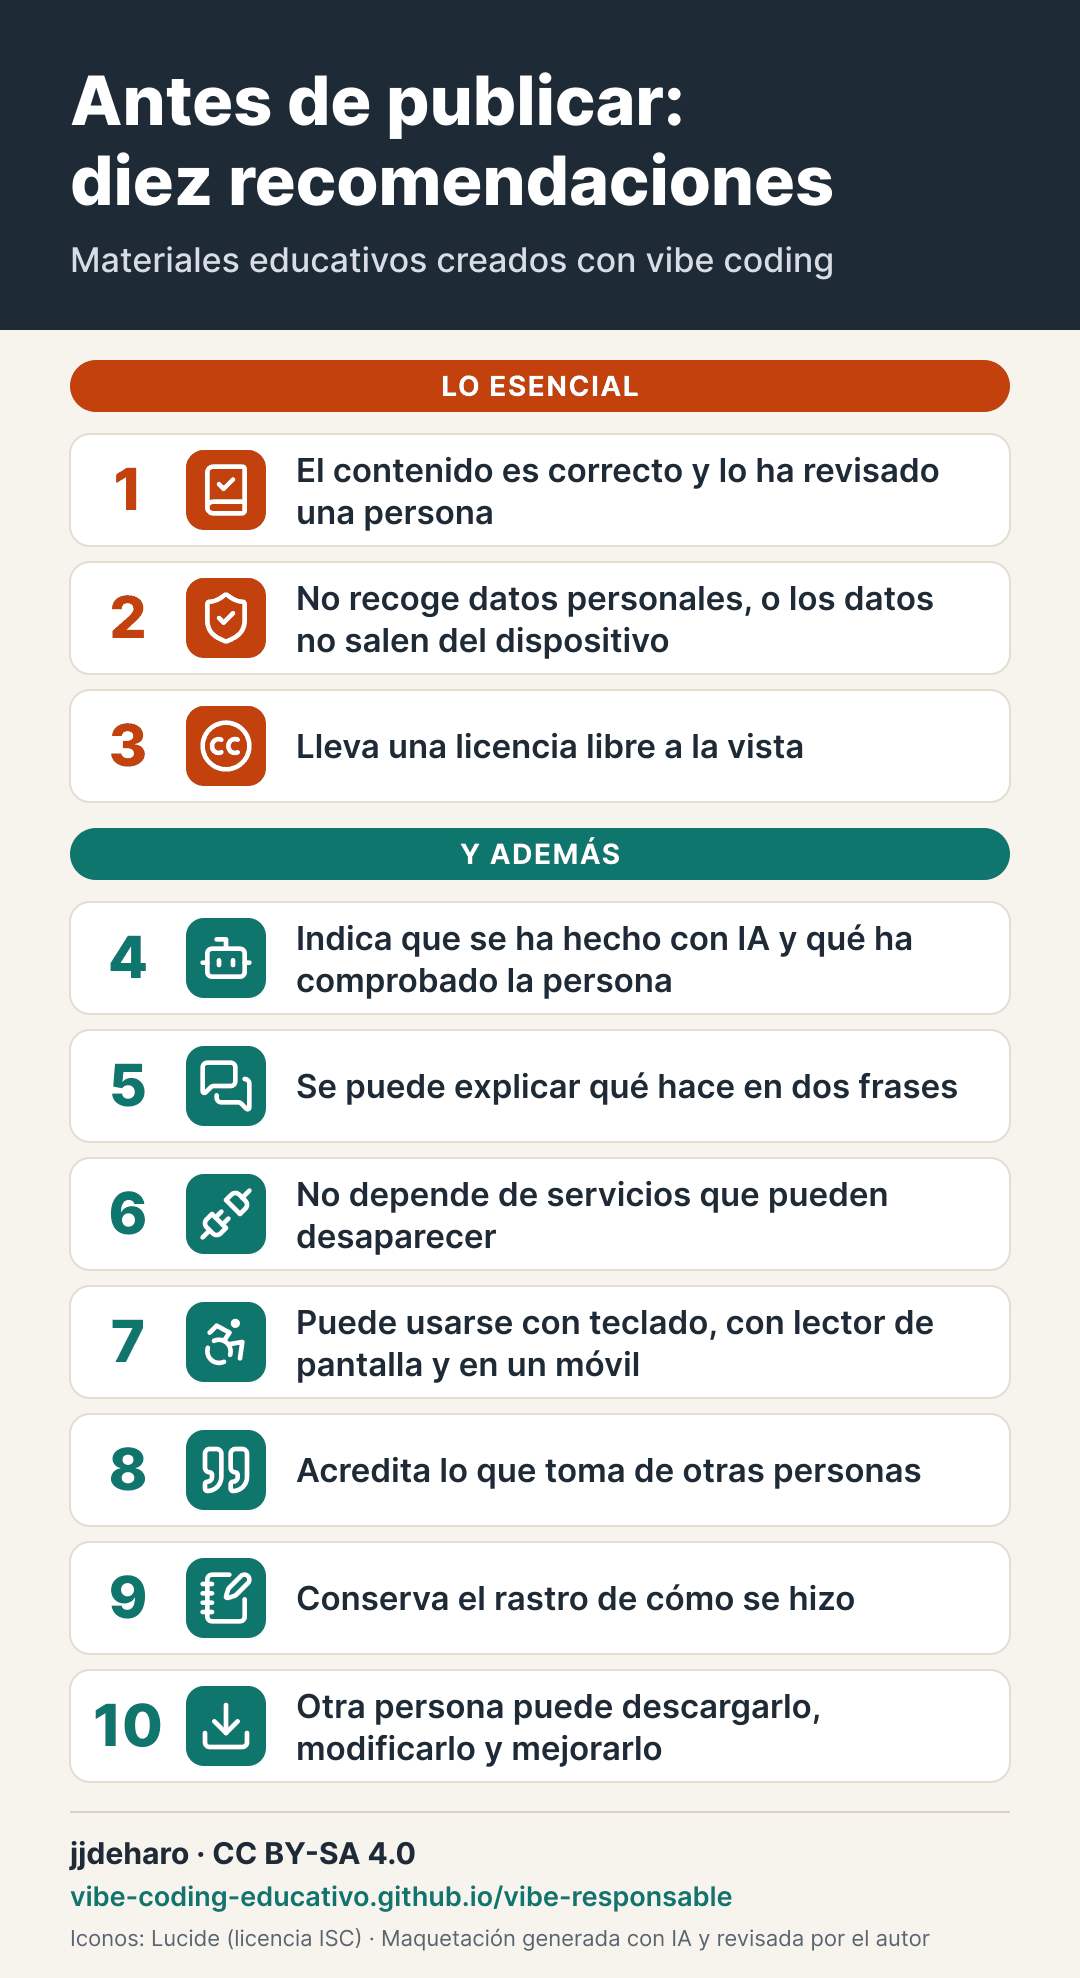
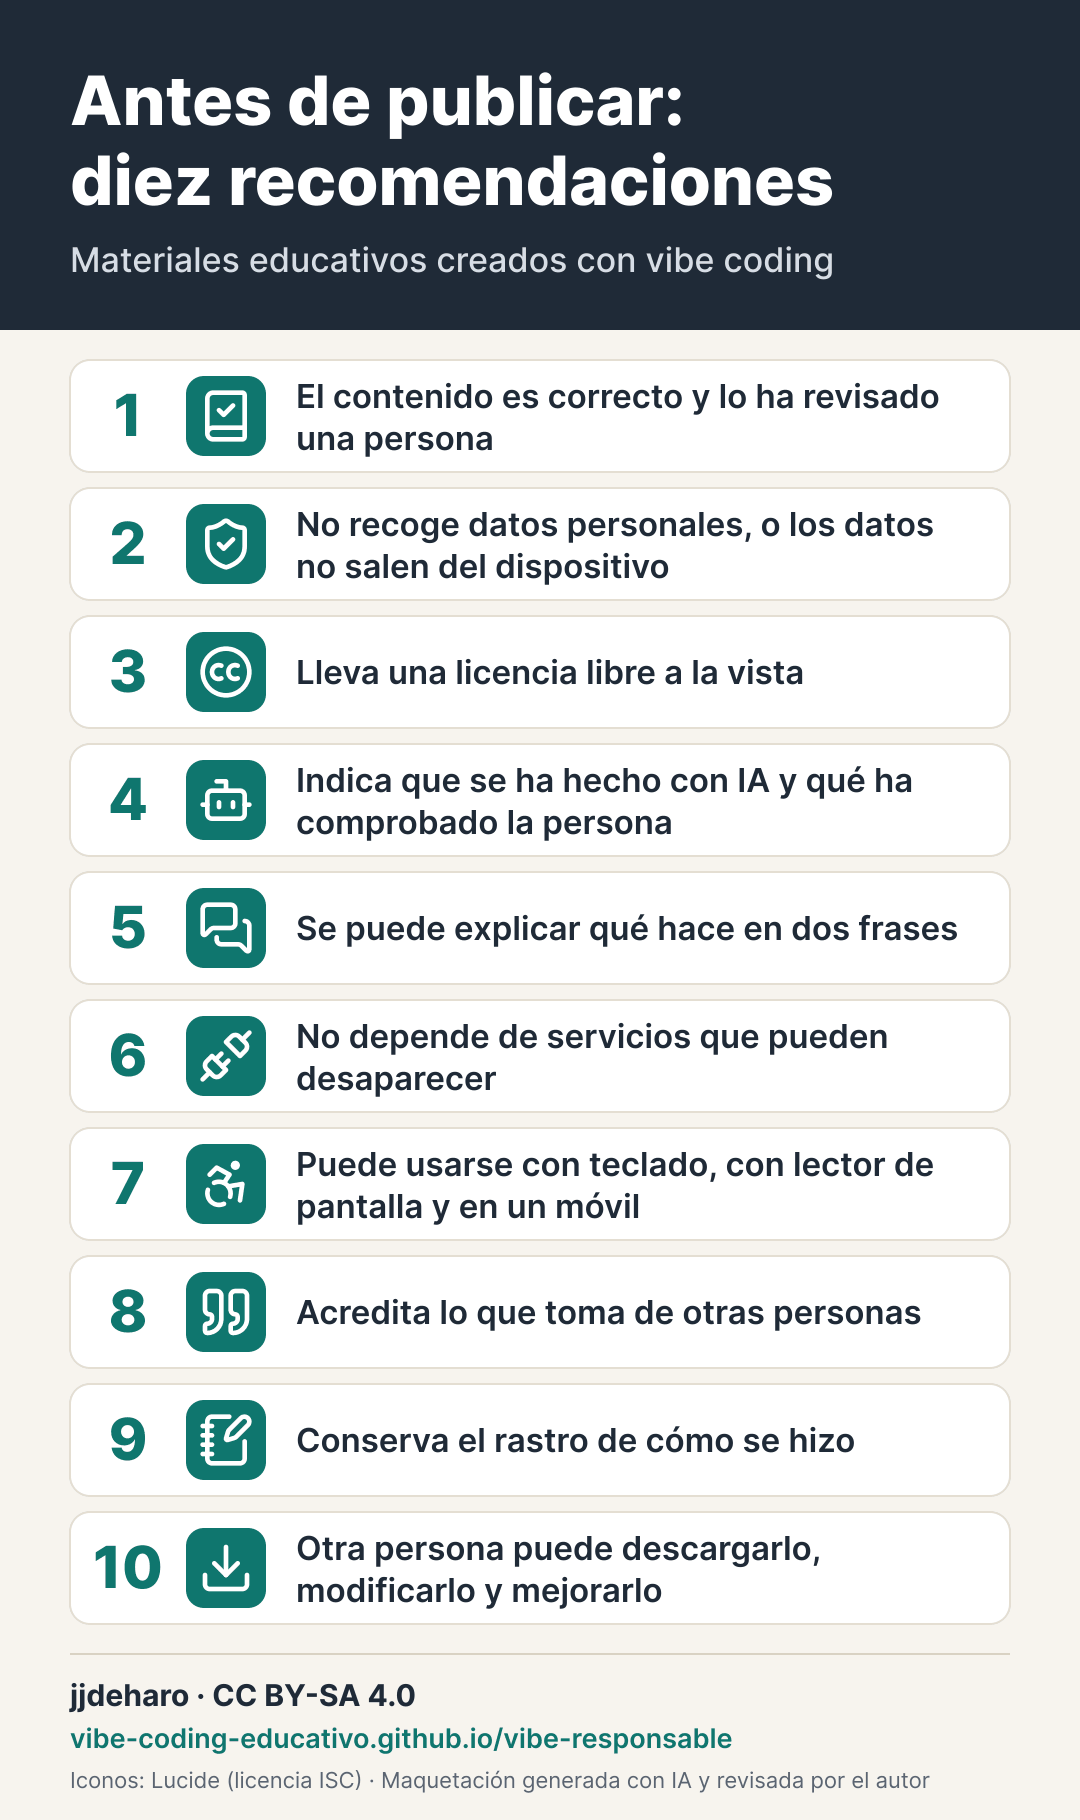
Drop the essential/extra division from the checklist and its infographic

diff --git a/infografia/generar.py b/infografia/generar.py
@@ -16,8 +16,6 @@ TEXTOS = {
     "es": {
         "titulo": ["Antes de publicar:", "diez recomendaciones"],
         "subtitulo": "Materiales educativos creados con vibe coding",
-        "esencial": "Lo esencial",
-        "recomendable": "Y además",
         "puntos": [
             ("book-check", "El contenido es correcto y lo ha revisado una persona"),
             ("shield-check", "No recoge datos personales, o los datos no salen del dispositivo"),
@@ -33,7 +31,6 @@ TEXTOS = {
         "pie1": "jjdeharo · CC BY-SA 4.0",
         "pie2": "vibe-coding-educativo.github.io/vibe-responsable",
         "pie3": "Iconos: Lucide (licencia ISC) · Maquetación generada con IA y revisada por el autor",
-        "pie3_ilustrada": "Ilustraciones generadas con IA · Maquetación generada con IA y revisada por el autor",
         "desc": "Infografía con las diez recomendaciones para publicar de forma responsable materiales educativos creados con vibe coding.",
     },
 }
@@ -56,19 +53,9 @@ def generar(idioma="es"):
     out.append(f'<text x="70" y="272" font-size="34" font-weight="500" fill="#d6dde6">{html.escape(T["subtitulo"])}</text>')
     y = alto_cab + 30
 
-    def banda(texto, color):
-        nonlocal y
-        out.append(f'<rect x="70" y="{y}" width="{ANCHO-140}" height="52" rx="26" fill="{color}"/>')
-        out.append(f'<text x="{ANCHO/2}" y="{y+36}" font-size="28" font-weight="700" fill="{BLANCO}" text-anchor="middle" letter-spacing="1.5">{html.escape(texto.upper())}</text>')
-        y += 52 + 22
-
     ALTO_FILA = 128
     for i, (ic, texto) in enumerate(T["puntos"], start=1):
-        if i == 1: banda(T["esencial"], NARANJA)
-        if i == 4:
-            y += 10
-            banda(T["recomendable"], VERDE)
-        color = NARANJA if i <= 3 else VERDE
+        color = VERDE
         # tarjeta
         out.append(f'<rect x="70" y="{y}" width="{ANCHO-140}" height="{ALTO_FILA-16}" rx="20" fill="{BLANCO}" stroke="#e4ded2" stroke-width="2"/>')
         # número
@@ -101,59 +88,7 @@ def generar(idioma="es"):
     destino.write_text(svg, encoding="utf-8")
     return destino, alto
 
-def generar_ilustrada(idioma="es"):
-    """Misma lista, con las ilustraciones generadas por IA (codex/01.png … 10.png)."""
-    T = TEXTOS[idioma]
-    out, defs = [], []
-    alto_cab = 330
-    out.append(f'<rect x="0" y="0" width="{ANCHO}" height="{alto_cab}" fill="{PIZARRA}"/>')
-    out.append(f'<text x="70" y="125" font-size="68" font-weight="800" fill="{BLANCO}">{html.escape(T["titulo"][0])}</text>')
-    out.append(f'<text x="70" y="205" font-size="68" font-weight="800" fill="{BLANCO}">{html.escape(T["titulo"][1])}</text>')
-    out.append(f'<text x="70" y="272" font-size="34" font-weight="500" fill="#d6dde6">{html.escape(T["subtitulo"])}</text>')
-    y = alto_cab + 30
-    LADO, ALTO_FILA = 148, 180
-
-    def banda(texto, color):
-        nonlocal y
-        out.append(f'<rect x="70" y="{y}" width="{ANCHO-140}" height="52" rx="26" fill="{color}"/>')
-        out.append(f'<text x="{ANCHO/2}" y="{y+36}" font-size="28" font-weight="700" fill="{BLANCO}" text-anchor="middle" letter-spacing="1.5">{html.escape(texto.upper())}</text>')
-        y += 52 + 22
-
-    for i, (_, texto) in enumerate(T["puntos"], start=1):
-        if i == 1: banda(T["esencial"], NARANJA)
-        if i == 4:
-            y += 10
-            banda(T["recomendable"], VERDE)
-        color = NARANJA if i <= 3 else VERDE
-        out.append(f'<rect x="70" y="{y}" width="{ANCHO-140}" height="{ALTO_FILA-16}" rx="20" fill="{BLANCO}" stroke="#e4ded2" stroke-width="2"/>')
-        defs.append(f'<clipPath id="c{i}"><rect x="78" y="{y+8}" width="{LADO}" height="{LADO}" rx="14"/></clipPath>')
-        out.append(f'<image href="codex/{i:02d}.png" x="78" y="{y+8}" width="{LADO}" height="{LADO}" clip-path="url(#c{i})" preserveAspectRatio="xMidYMid slice"/>')
-        out.append(f'<circle cx="276" cy="{y+82}" r="30" fill="{color}"/>')
-        out.append(f'<text x="276" y="{y+95}" font-size="36" font-weight="800" fill="{BLANCO}" text-anchor="middle">{i}</text>')
-        lineas = textwrap.wrap(texto, width=36)
-        y0 = y + 94 - (len(lineas)-1)*21
-        for k, l in enumerate(lineas):
-            out.append(f'<text x="326" y="{y0+k*42}" font-size="33" font-weight="600" fill="{PIZARRA}">{html.escape(l)}</text>')
-        y += ALTO_FILA
-
-    y += 14
-    out.append(f'<line x1="70" y1="{y}" x2="{ANCHO-70}" y2="{y}" stroke="#d9d2c3" stroke-width="2"/>')
-    out.append(f'<text x="70" y="{y+52}" font-size="30" font-weight="700" fill="{PIZARRA}">{html.escape(T["pie1"])}</text>')
-    out.append(f'<text x="70" y="{y+94}" font-size="27" font-weight="600" fill="{VERDE}">{html.escape(T["pie2"])}</text>')
-    out.append(f'<text x="70" y="{y+134}" font-size="22" fill="{GRIS}">{html.escape(T["pie3_ilustrada"])}</text>')
-    alto = y + 166
-    svg = (f'<svg xmlns="http://www.w3.org/2000/svg" viewBox="0 0 {ANCHO} {alto}" width="{ANCHO}" height="{alto}" '
-           f'font-family="Inter, \'Open Sans\', Arial, sans-serif" role="img" aria-labelledby="t d" lang="{idioma}">\n'
-           f'<title id="t">{html.escape(" ".join(T["titulo"]))}</title>\n<desc id="d">{html.escape(T["desc"])}</desc>\n'
-           f'<defs>{"".join(defs)}</defs>\n<rect width="{ANCHO}" height="{alto}" fill="{CREMA}"/>\n' + "\n".join(out) + "\n</svg>\n")
-    destino = AQUI / f"lista-ilustrada.{idioma}.svg"
-    destino.write_text(svg, encoding="utf-8")
-    return destino, alto
-
 if __name__ == "__main__":
     idioma = sys.argv[1] if len(sys.argv) > 1 else "es"
     d, alto = generar(idioma)
     print(d.name, f"{ANCHO}x{alto}")
-    if (AQUI / "codex" / "01.png").exists():
-        d, alto = generar_ilustrada(idioma)
-        print(d.name, f"{ANCHO}x{alto}")

diff --git a/infografia/codex/PROMPT.md b/infografia/codex/PROMPT.md
@@ -1,24 +1,40 @@
-Genera diez ilustraciones para una infografía educativa, una por cada recomendación de la lista de abajo, usando tu herramienta de generación de imágenes. Guarda cada una como PNG en esta misma carpeta con los nombres 01.png a 10.png.
+Genera UNA SOLA infografía, en una única imagen, con tu herramienta de generación de imágenes. Guárdala como PNG en esta carpeta con el nombre `infografia.png`. Es una infografía para ver de un vistazo diez recomendaciones, cada una con su número, un dibujo representativo y su texto.
 
-Requisitos comunes, muy importantes para que las diez formen un conjunto:
-- Estilo: ilustración plana (flat), vectorial, limpia, con formas simples y contorno fino, sin degradados complejos ni sombras realistas.
-- Paleta limitada y siempre la misma: verde azulado #0f766e, naranja tostado #c2410c, azul pizarra #1f2a37, crema #f7f4ee y blanco.
-- Fondo liso de color crema #f7f4ee, sin marco ni viñeta.
-- Formato cuadrado, 1024x1024, con el motivo centrado y margen alrededor.
-- SIN NINGÚN TEXTO, letra ni número dentro de la imagen. Los rótulos se añadirán después.
-- Un único motivo claro por imagen, reconocible a tamaño pequeño (se verá a unos 200 px).
-- Contexto: docentes que publican materiales educativos creados con IA. Las personas, si aparecen, diversas y sin rasgos detallados.
+Formato: vertical (proporción aproximada 2:3 o 9:16), pensada para verse en un teléfono móvil y compartirse por Telegram. Alta resolución.
 
-Las diez recomendaciones y el motivo sugerido para cada una:
-01. El contenido es correcto y lo ha revisado una persona. Motivo: una docente revisando con lupa una pantalla con un ejercicio, con una marca de verificación.
-02. No recoge datos personales, o los datos no salen del dispositivo. Motivo: un ordenador portátil con un escudo y un candado; los datos se quedan dentro.
-03. Lleva una licencia libre a la vista. Motivo: un documento con un sello o etiqueta de licencia abierta bien visible (sin letras), con manos que lo comparten.
-04. Indica que se ha hecho con IA y qué ha comprobado la persona. Motivo: un robot amable y una persona, lado a lado, junto a una lista de comprobación.
-05. Se puede explicar qué hace en dos frases. Motivo: una persona explicando con dos bocadillos de diálogo sencillos (vacíos, sin texto).
-06. No depende de servicios que pueden desaparecer. Motivo: una caja o paquete autosuficiente con todo dentro, y al fondo una nube que se desvanece.
-07. Puede usarse con teclado, con lector de pantalla y en un móvil. Motivo: un teclado, un teléfono móvil y el símbolo universal de accesibilidad.
-08. Acredita lo que toma de otras personas. Motivo: una imagen enmarcada con una etiqueta de autoría debajo (sin letras), y unas comillas.
-09. Conserva el rastro de cómo se hizo. Motivo: un cuaderno de bitácora con un camino de huellas o una línea de tiempo con hitos.
-10. Otra persona puede descargarlo, modificarlo y mejorarlo. Motivo: una flecha de descarga y dos personas que continúan y mejoran una misma pieza, como un puzle.
+Estilo: infografía educativa cuidada, ilustración plana (flat) y limpia, con buen contraste y texto grande y muy legible. Paleta limitada: verde azulado #0f766e, naranja tostado #c2410c, azul pizarra #1f2a37, crema #f7f4ee y blanco. Fondo crema. Nada de estilo publicitario.
 
-Cuando termines, escribe en esta carpeta un archivo DECLARACION.md con el modelo de IA utilizado para generar las imágenes y la fecha. No modifiques ningún otro archivo del repositorio.
+TEXTO EXACTO que debe aparecer, en español, sin cambiar ni una palabra, sin erratas y con todas sus tildes:
+
+Título: Antes de publicar: diez recomendaciones
+Subtítulo: Materiales educativos creados con vibe coding
+
+Las diez recomendaciones, todas con el mismo peso visual, sin agruparlas ni destacar unas sobre otras:
+1. El contenido es correcto y lo ha revisado una persona
+2. No recoge datos personales, o los datos no salen del dispositivo
+3. Lleva una licencia libre a la vista
+4. Indica que se ha hecho con IA y qué ha comprobado la persona
+5. Se puede explicar qué hace en dos frases
+6. No depende de servicios que pueden desaparecer
+7. Puede usarse con teclado, con lector de pantalla y en un móvil
+8. Acredita lo que toma de otras personas
+9. Conserva el rastro de cómo se hizo
+10. Otra persona puede descargarlo, modificarlo y mejorarlo
+
+Pie de la imagen, en pequeño pero legible:
+jjdeharo · CC BY-SA 4.0
+vibe-coding-educativo.github.io/vibe-responsable
+
+Dibujo sugerido para cada punto (uno por punto, junto a su número y su texto):
+1. Una docente revisando una pantalla con una marca de verificación.
+2. Un portátil con un escudo y un candado.
+3. Un documento con un sello de licencia abierta (símbolo CC).
+4. Un robot amable y una persona junto a una lista de comprobación.
+5. Una persona con dos bocadillos de diálogo.
+6. Una caja autosuficiente y una nube que se desvanece al fondo.
+7. Un teclado, un móvil y el símbolo universal de accesibilidad.
+8. Una imagen enmarcada con su etiqueta de autoría y unas comillas.
+9. Un cuaderno con una línea de tiempo o un camino de huellas.
+10. Una flecha de descarga y dos personas que mejoran una misma pieza.
+
+No añadas ningún otro texto, logotipo ni marca de agua. Cuando la tengas, ábrela y comprueba el texto letra a letra contra esta lista; si hay alguna errata o falta una tilde, vuelve a generarla hasta que sea exacta (tres intentos como máximo; guarda el mejor). Después escribe `DECLARACION.md` con el modelo de IA utilizado para generar la imagen y la fecha. No modifiques ningún otro archivo del repositorio.

diff --git a/contenido/es/00-lista.md b/contenido/es/00-lista.md
@@ -4,7 +4,7 @@ Esta guía nace de dos motivos, uno ético y otro legal. El motivo ético es que
 
 El motivo legal es que publicar un material convierte a su autor en responsable de lo que ese material hace, y algunas decisiones que parecen técnicas tienen consecuencias jurídicas. Recoger datos del alumnado sin que el centro lo haya autorizado puede vulnerar la normativa de protección de datos, que es especialmente estricta cuando se trata de menores. Incorporar imágenes, textos o piezas de software sin respetar su licencia vulnera los derechos de sus autores. En ambos casos la responsabilidad recae en la persona que publica, y no en la IA que generó el material.
 
-La lista que sigue reúne las diez recomendaciones de la guía, de forma que también sirve para revisar un material que ya está hecho. Cada una enlaza con el capítulo donde se explica con más detalle. Las que tienen consecuencias legales son, sobre todo, la 2, la 3 y la 8, mientras que las demás responden al compromiso con el alumnado y con la comunidad docente. Las tres primeras son las esenciales, por lo que conviene empezar por ellas.
+La lista que sigue reúne las diez recomendaciones de la guía, de forma que también sirve para revisar un material que ya está hecho. Cada una enlaza con el capítulo donde se explica con más detalle. Las que tienen consecuencias legales son, sobre todo, la 2, la 3 y la 8, mientras que las demás responden al compromiso con el alumnado y con la comunidad docente.
 
 No todas las personas trabajan con los mismos medios, y las herramientas para crear programas con IA son muy variadas. A grandes rasgos pueden agruparse en cuatro familias, que se presentan a continuación con algunos ejemplos de las disponibles en 2026.
 
